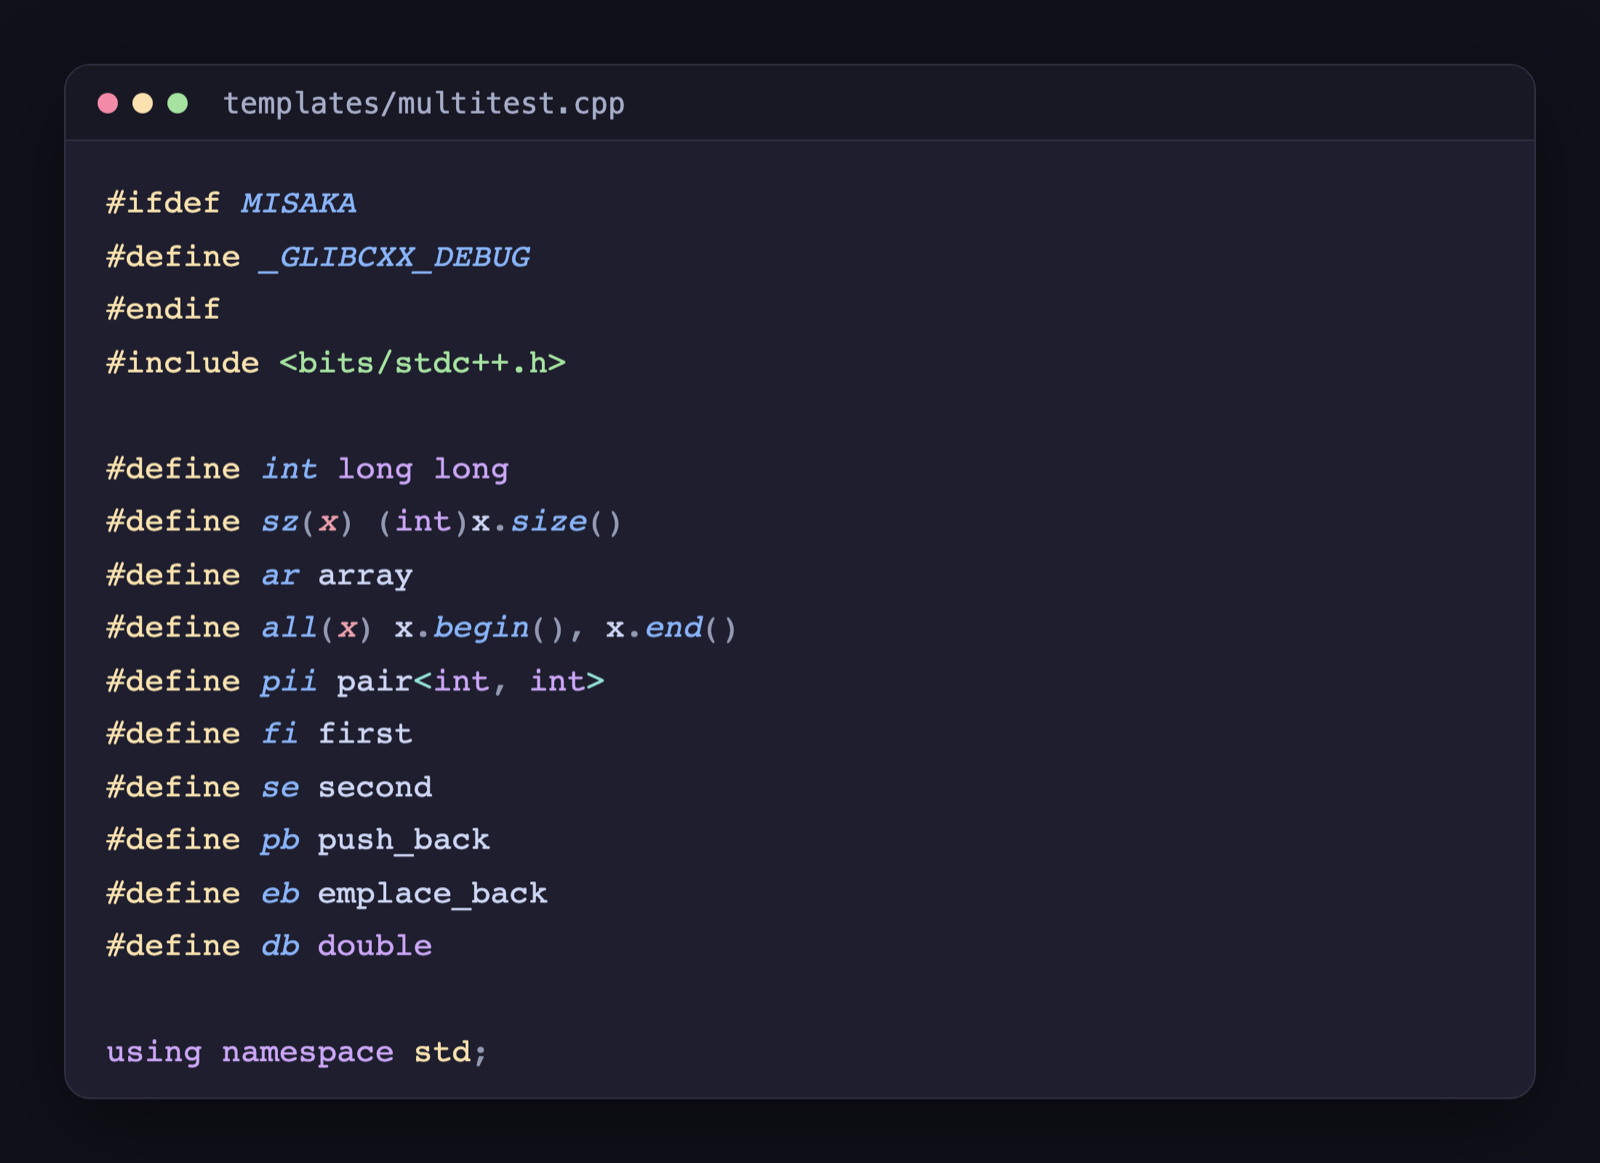
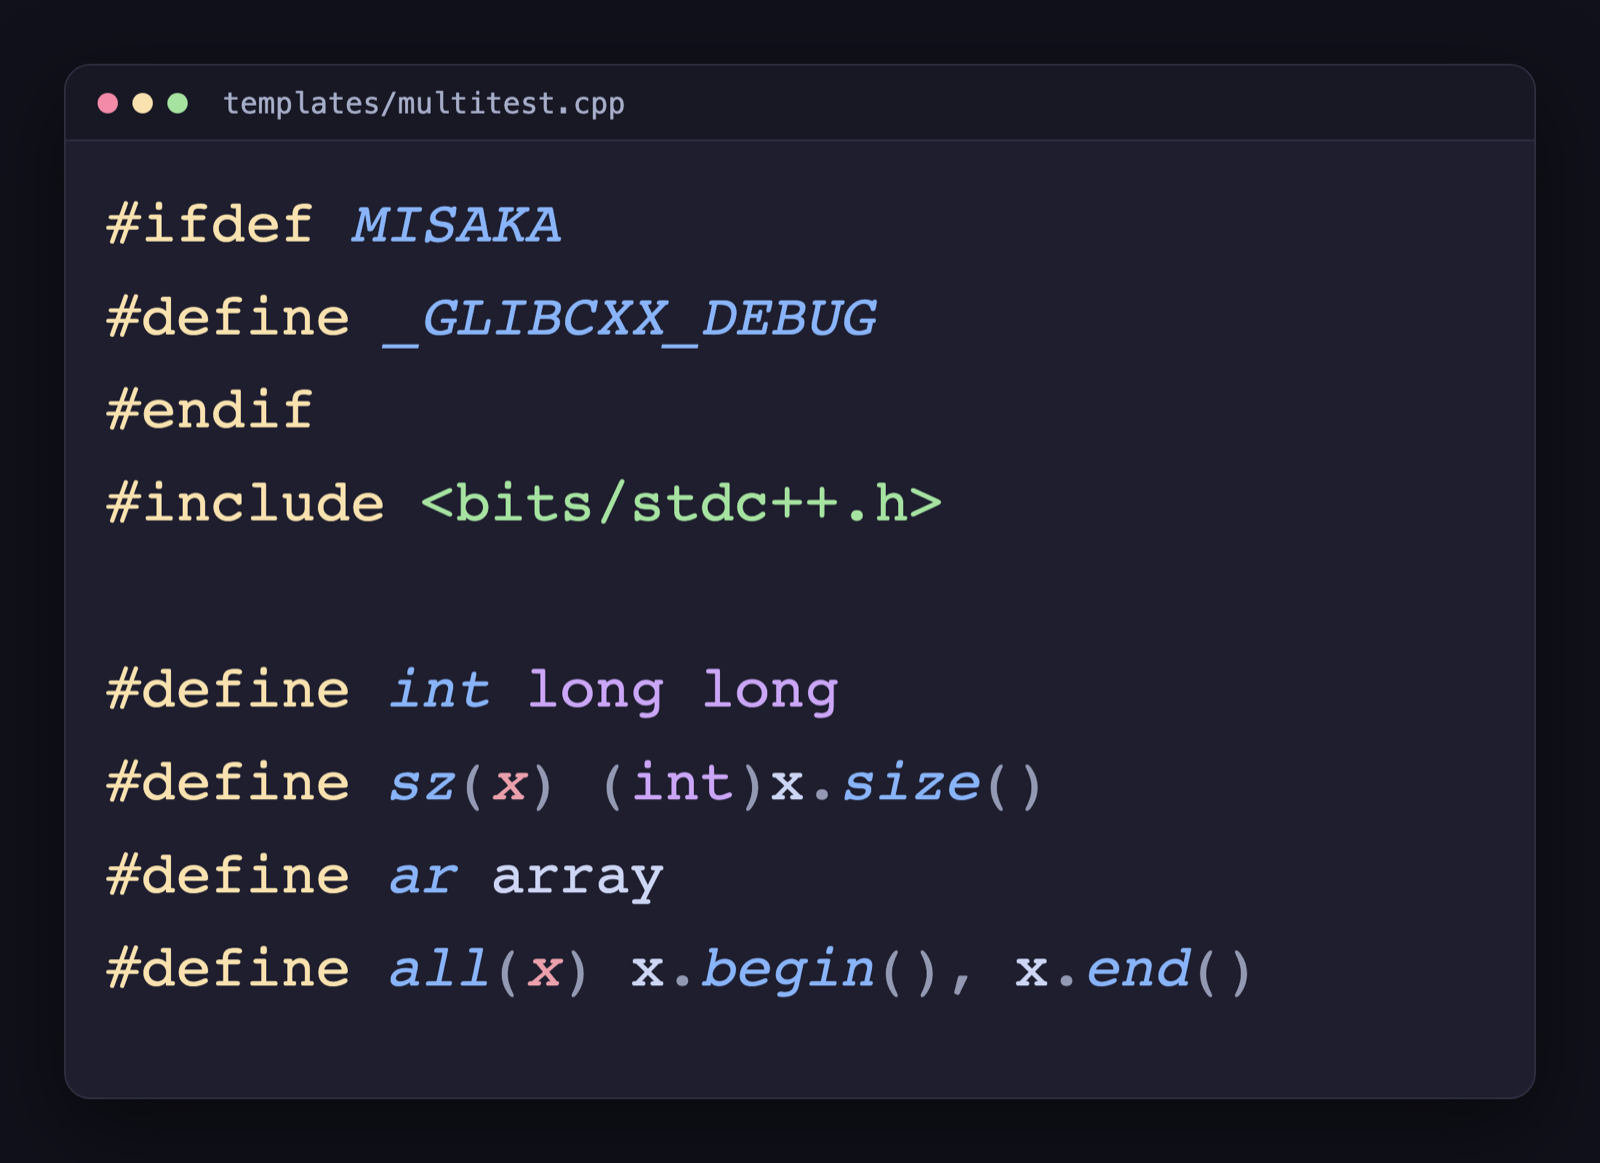
fix(projects): fill each picture frame, zoomed on the readable part

diff --git a/src/content.config.ts b/src/content.config.ts
@@ -49,8 +49,14 @@ const projects = defineCollection({
       description: z.string(),
       tags: z.array(z.string()),
       image: image().optional(),
-      // The card always shows the whole image, never a crop. This is the frame
-      // color behind it when the image is not 11:8; defaults to white.
+      // Card pictures fill an 11:8 frame. `imageFocus` is the point that stays
+      // in view (CSS position, e.g. '50% 20%') and `imageZoom` magnifies around
+      // it, so the readable part of a screenshot is shown large.
+      imageFocus: z.string().optional(),
+      imageZoom: z.number().optional(),
+      // 'contain' is for wide wordmark logos that must not be cut
+      imageFit: z.enum(['cover', 'contain']).optional(),
+      // Frame color behind a 'contain' or zoomed-out image; defaults to white
       imageBg: z.string().optional(),
       link: z.string().url().optional(),
       startDate: z.coerce.date().optional(),

diff --git a/src/content/projects/lunabill.md b/src/content/projects/lunabill.md
@@ -3,6 +3,7 @@ name: "LunaBill"
 description: "Architected LunaBill's (YC F25) full AR revenue cycle engine. Multi-agent AI covering claim ingestion, eligibility, portal automation, outbound voice agents, and appeals. Smart routing + fine-tuned classifiers replaced $19k/mo in manual labor & outbound calls."
 tags: ["TypeScript", "Python", "AI Agents", "Voice AI"]
 image: "../../../public/static/work/lunabill.png"
+imageZoom: 0.9
 link: "https://lunabill.com/"
 startDate: 2025-10-01
 ---

diff --git a/src/content/projects/tsukiyomi.md b/src/content/projects/tsukiyomi.md
@@ -3,7 +3,9 @@ name: "Tsukiyomi"
 description: "macOS menu bar productivity app. Time blocks, todo, CP problem backlog, macro/calorie tracker, Pomodoro, and daily notes — all in one panel."
 tags: ["Swift", "SwiftUI", "SwiftData", "macOS"]
 image: "../../../public/static/work/tsukiyomi.png"
-imageBg: "#0e1115"
+imageFocus: '50% 9.4%'
+imageZoom: 1.06
+imageBg: '#0e1115'
 link: "https://github.com/seraph27/tsukiyomi"
 startDate: 2025-10-01
 ---

diff --git a/src/content/projects/foxconn.md b/src/content/projects/foxconn.md
@@ -3,6 +3,8 @@ name: "Foxconn iAi"
 description: "Optimized real-time voice agent pipeline using ASR, LLMs, and TTS. Cut latency by 25% with streaming optimizations and sliding-window buffering."
 tags: ["Python", "PyTorch", "Machine Learning", "internship"]
 image: "../../../public/static/work/foxconn.png"
+imageFit: 'contain'
+imageZoom: 1.1
 link: "https://www.foxconn.com"
 startDate: 2025-06-01
 endDate: 2025-08-31

diff --git a/src/content/projects/formosa-dental.md b/src/content/projects/formosa-dental.md
@@ -3,6 +3,7 @@ name: "Formosa Dental Clinic"
 description: "Built PWA for clinic management (scheduling, billing, patient records, inventory). Processed $200k+ transactions at top Taiwan Invisalign clinic."
 tags: ["TypeScript", "Next.js", "PostgreSQL", "contract"]
 image: "../../../public/static/work/formosadental.png"
+imageZoom: 0.88
 link: "https://www.facebook.com/formosadental/"
 startDate: 2025-08-01
 ---

diff --git a/src/content/projects/cp-dashboard.md b/src/content/projects/cp-dashboard.md
@@ -3,6 +3,8 @@ name: "Competitive Programming Dashboard"
 description: "Real-time competitive programming dashboard tracking contest performance, rating progression, and problem-solving statistics."
 tags: ["TypeScript", "Next.js"]
 image: "../../../public/static/work/cp-dashboard.png"
+imageFocus: '100% 65%'
+imageZoom: 1.34
 link: "https://seraphowo.vercel.app/"
 startDate: 2024-06-01
 ---

diff --git a/src/content/projects/systex.md b/src/content/projects/systex.md
@@ -3,6 +3,8 @@ name: "Systex Software"
 description: "Automated CT scan preprocessing workflow (DICOM ingestion, inference, annotation). Saved 100+ hrs/week of manual work."
 tags: ["Python", "Scripting", "internship"]
 image: "../../../public/static/work/systex.jpg"
+imageFit: 'contain'
+imageZoom: 1.15
 link: "https://tw.systex.com/en/"
 startDate: 2024-07-01
 endDate: 2024-09-30

diff --git a/src/content/projects/clipfarm.md b/src/content/projects/clipfarm.md
@@ -3,6 +3,8 @@ name: 'ClipFarm'
 description: 'Autonomous UGC production & content. It makes the reels for @level5esper, 8.8k followers on Instagram.'
 tags: ['TypeScript', 'React', 'Remotion', 'AI']
 image: '../../../public/static/work/clipfarm.png'
+imageFocus: '62% 15%'
+imageZoom: 1.5
 imageBg: '#1b1a18'
 link: 'https://instagram.com/level5esper'
 startDate: 2026-07-31

diff --git a/src/content/projects/nvim-configs.md b/src/content/projects/nvim-configs.md
@@ -3,7 +3,9 @@ name: "Neovim Config"
 description: "LazyVim-based config with custom snippets, LSP, and competitive programming workflow."
 tags: ["Neovim", "Lua"]
 image: "../../../public/static/work/nvim.png"
-imageBg: "#0c0f14"
+imageFocus: '36.6% 20%'
+imageZoom: 2.1
+imageBg: '#0c0f14'
 link: "https://github.com/seraph27/nvim-configs"
 startDate: 2024-01-01
 ---

diff --git a/src/content/projects/interview-platform.md b/src/content/projects/interview-platform.md
@@ -4,6 +4,8 @@ description: 'A community of 20k+ across social media and signups, using AI to l
 tags:
   ['SvelteKit', 'TypeScript', 'PostgreSQL', 'Drizzle', 'AI']
 image: '../../../public/static/work/whitebox.png'
+imageFocus: '50% 20%'
+imageZoom: 1.45
 link: 'https://whitebox.ac'
 startDate: 2026-01-01
 ---
